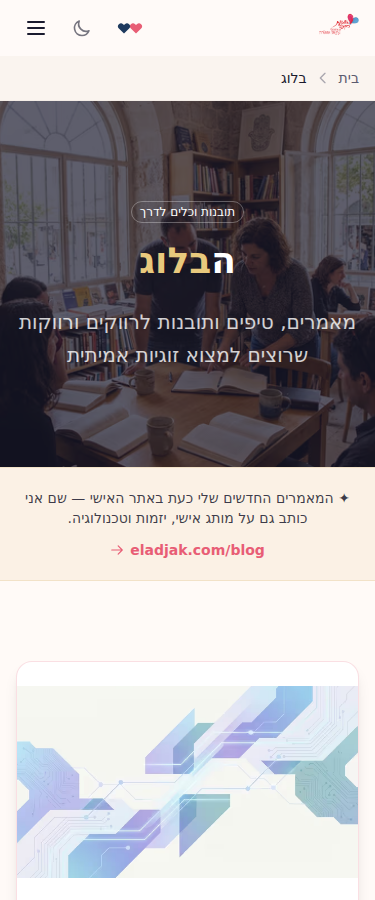
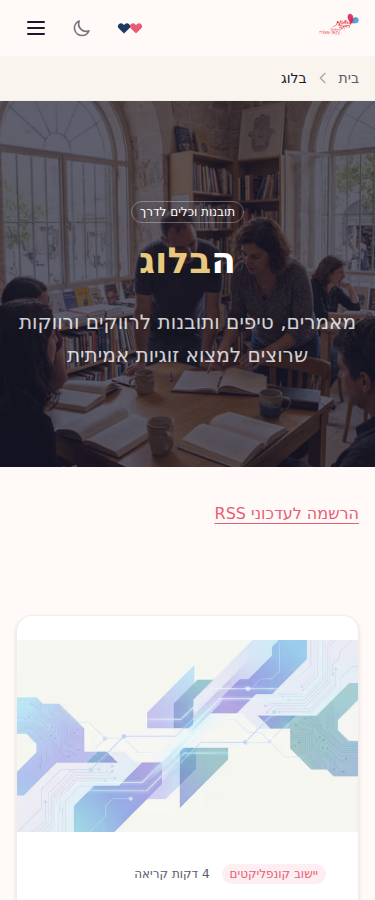
Record verification and preserve article attribution

diff --git a/src/app/blog/[slug]/page.tsx b/src/app/blog/[slug]/page.tsx
@@ -135,14 +135,14 @@ export default async function BlogPostPage({ params }: Props) {
       <section className="py-12 bg-muted/30 border-y border-border/30">
         <div className="container mx-auto px-4">
           <div className="max-w-3xl mx-auto flex flex-col sm:flex-row items-center gap-6">
-            <div className="relative w-20 h-20 rounded-full overflow-hidden flex-shrink-0 border-2 border-primary/30">
+            {!post.author && <div className="relative w-20 h-20 rounded-full overflow-hidden flex-shrink-0 border-2 border-primary/30">
               <Image
-                src="/assets/elad-photos/elad-2025-portrait.jpg"
+                src="/images/generated/about-elad-speaking.jpg"
                 alt="אלעד יעקובוביץ"
                 fill
                 className="object-cover"
               />
-            </div>
+            </div>}
             <div className="text-center sm:text-right flex-1">
               <p className="font-bold text-lg">{post.author || "אלעד יעקובוביץ׳"}</p>
               {!post.author && <p className="text-muted-foreground text-sm leading-relaxed">מאמן זוגיות עם 20 שנות ניסיון. 461 זוגות כבר מצאו אהבה עם הגישה שלי.</p>}
